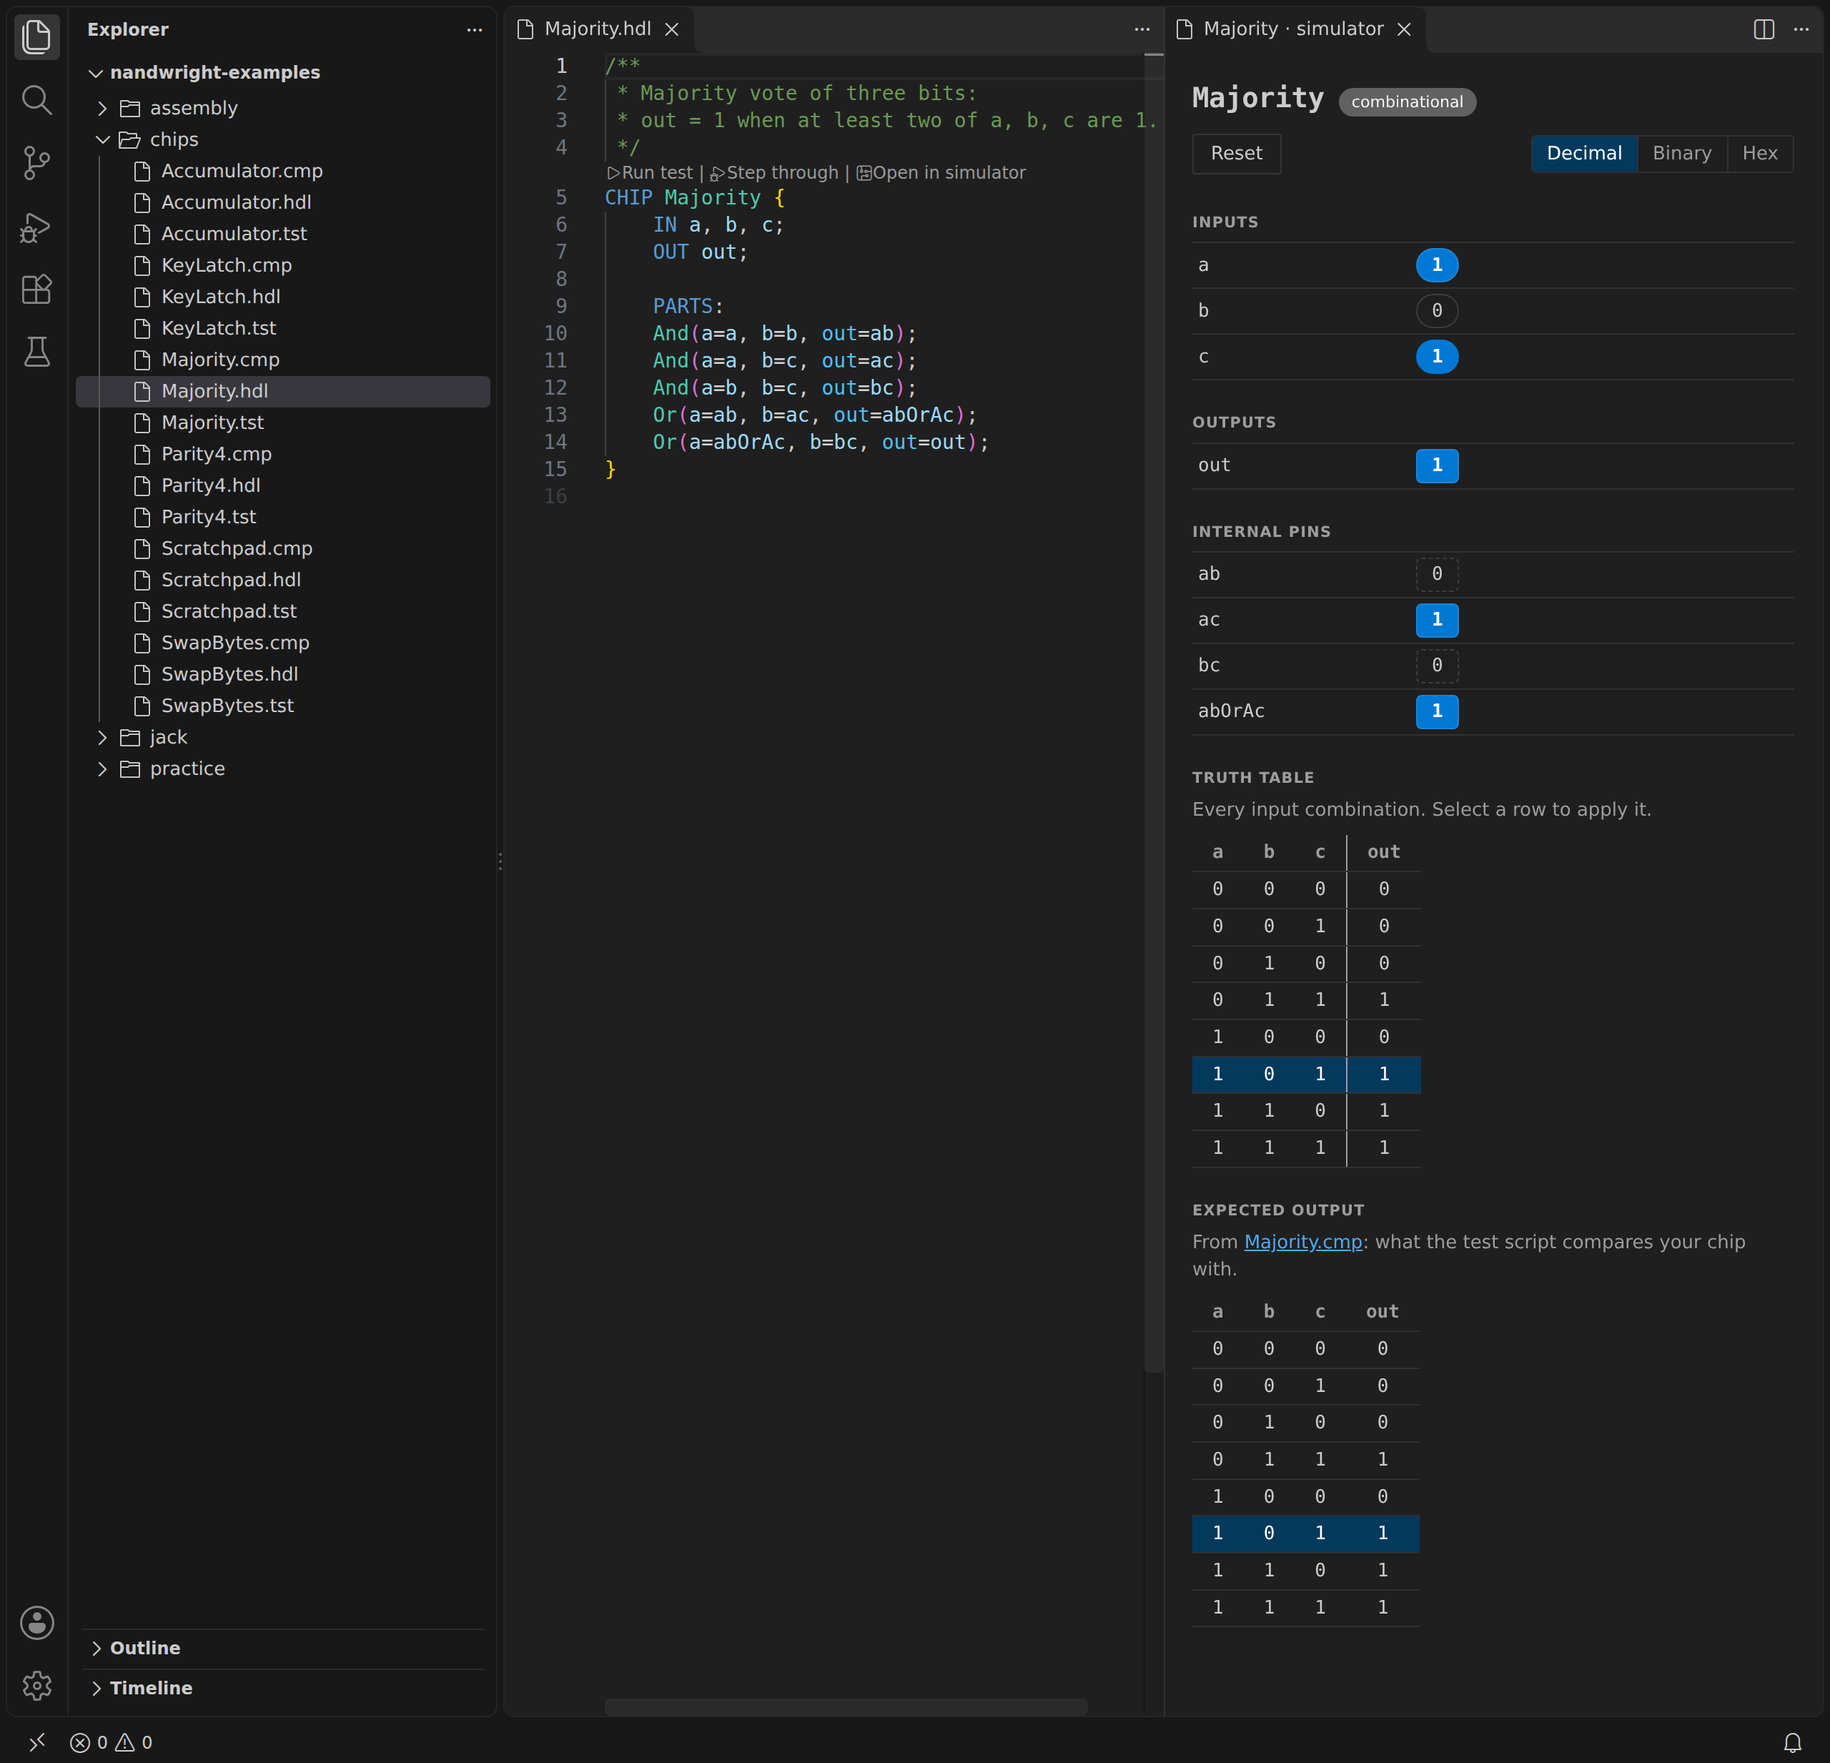
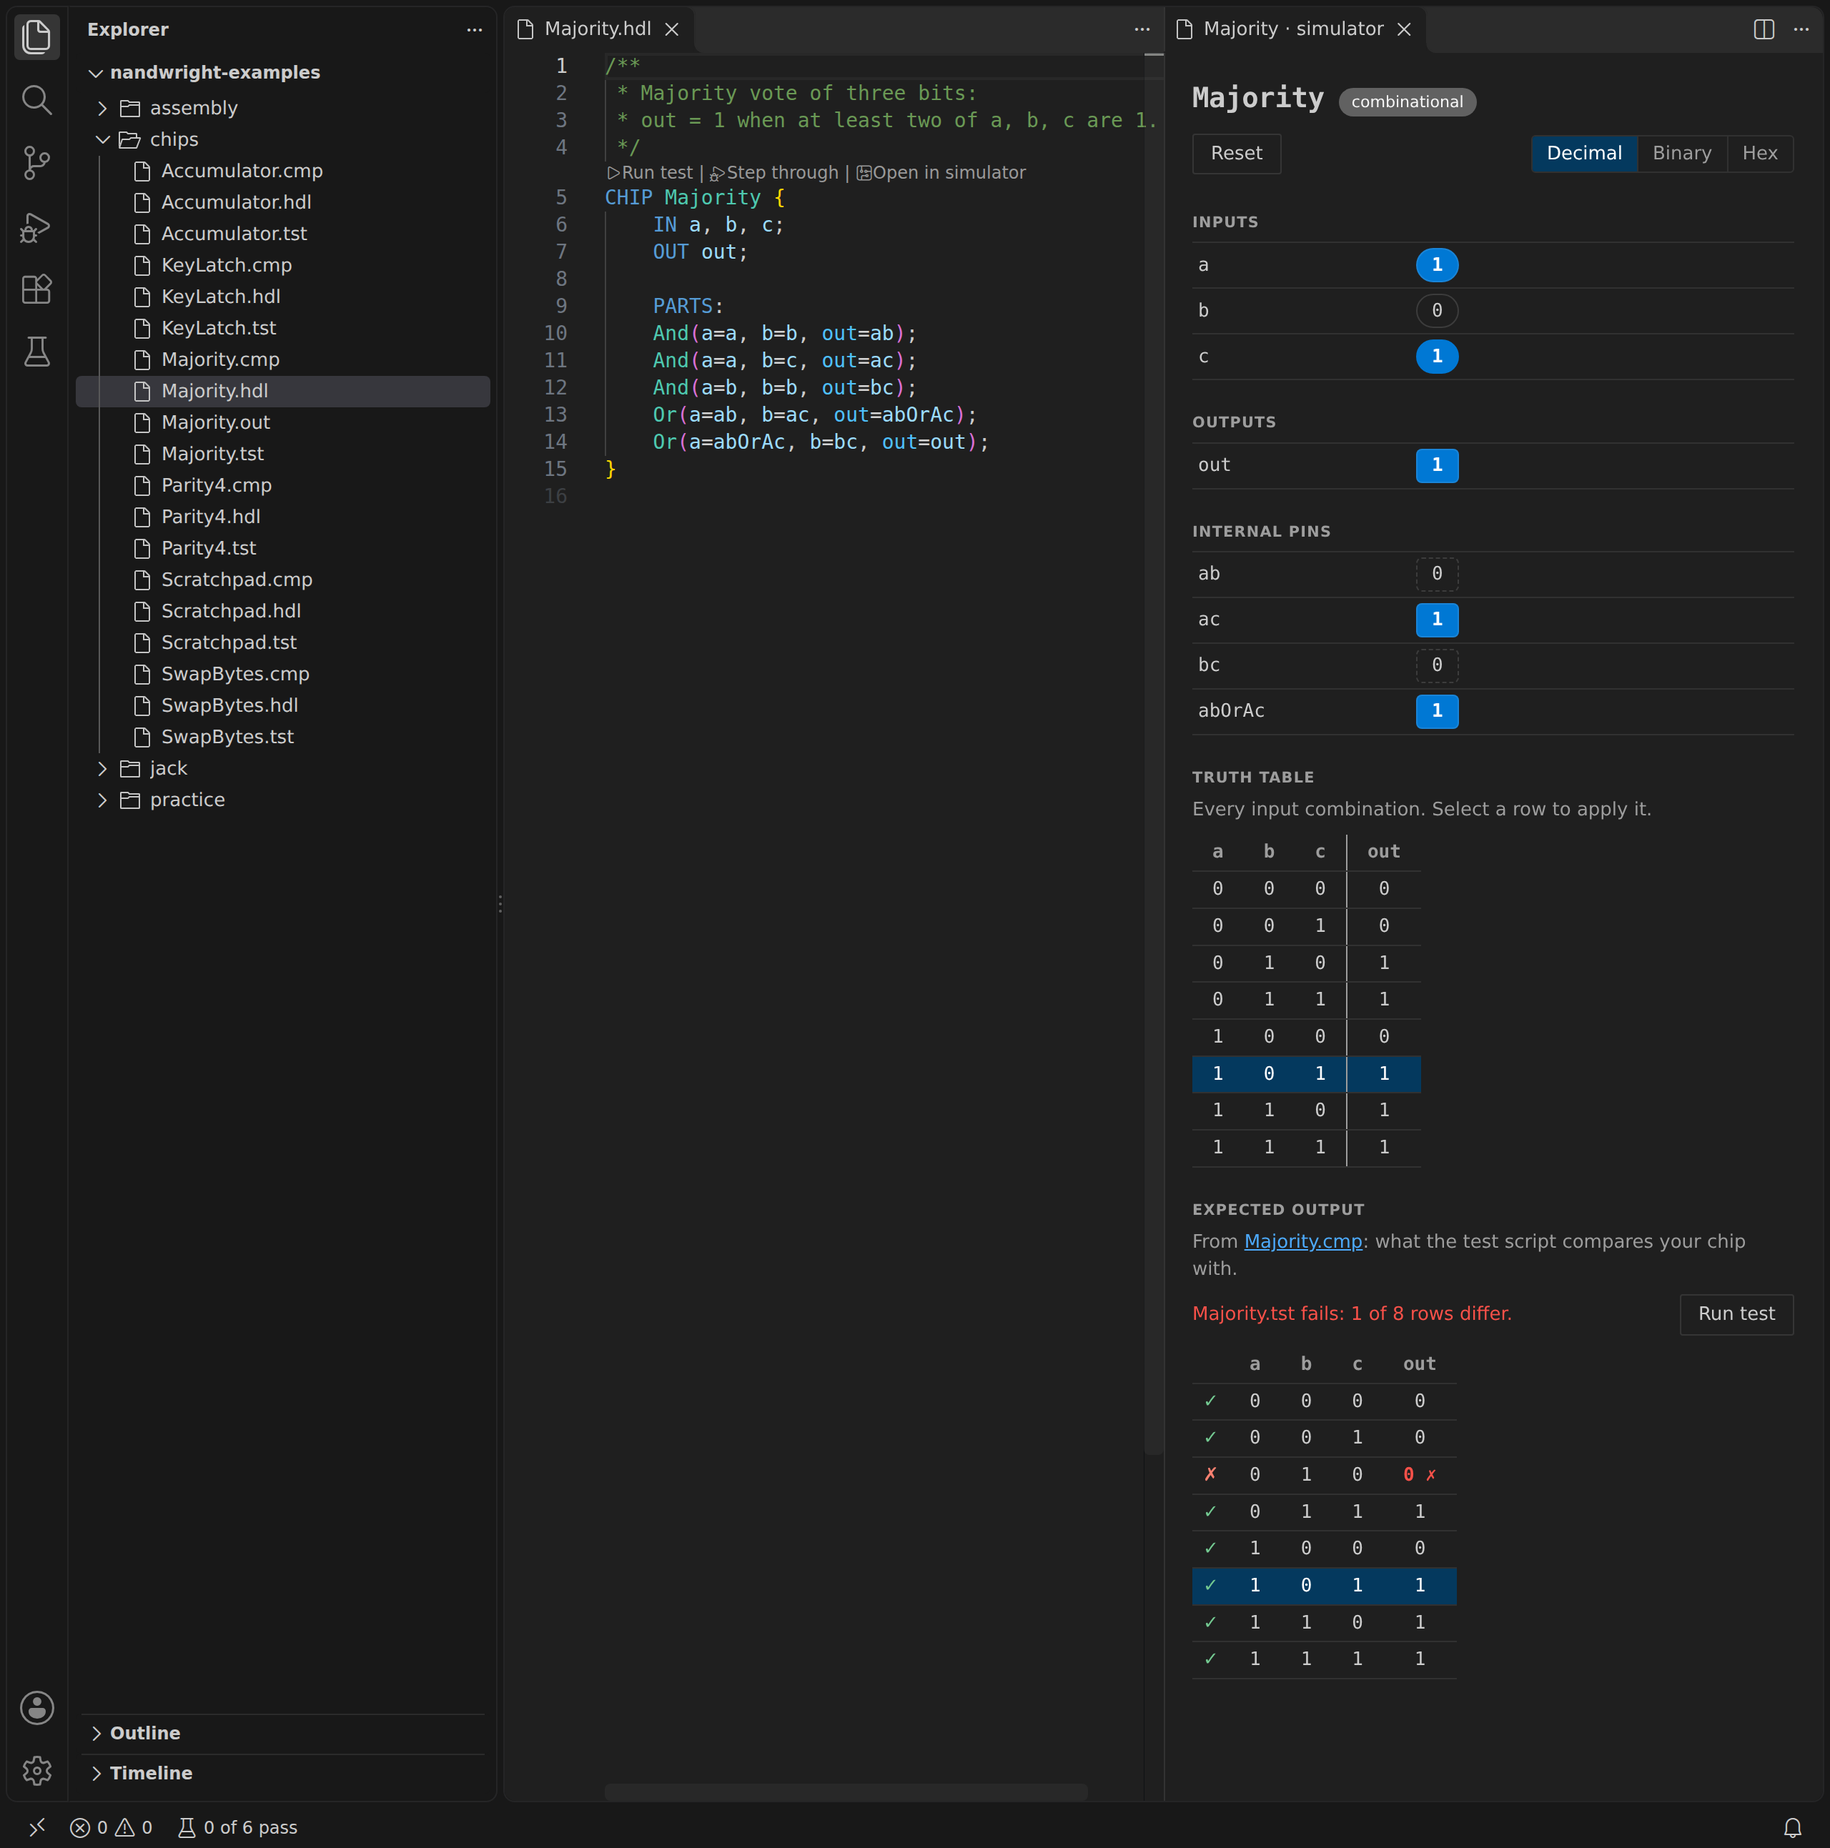
Clock history in the chip simulator; screenshots of the test result and the history

diff --git a/extension/src/chipPanel.ts b/extension/src/chipPanel.ts
@@ -4,7 +4,7 @@
 import * as path from 'node:path';
 import * as vscode from 'vscode';
 import { Runtime } from './runtime/client';
-import { ChipState, ChipTest, EngineError, Expected, TruthTable, isError } from './runtime/protocol';
+import { ChipState, ChipTest, ClockStep, EngineError, Expected, TruthTable, isError } from './runtime/protocol';
 import { panelHtml } from './panelHtml';
 import { pathKey, samePath } from './paths';
 import { TestExplorer, textOf } from './testing';
@@ -13,6 +13,9 @@ import type { FromPanel, ToPanel } from './webview/chip';
 
 /** Typing pauses this long before the panel reloads the chip. */
 const RELOAD_DELAY_MS = 250;
+
+/** Clock steps kept in the history; older ones are dropped. */
+const HISTORY_STEPS = 100;
 
 /** Rows of the compare file shown; the rest are counted, not listed. */
 const EXPECTED_ROWS = 256;
@@ -56,6 +59,10 @@ class ChipPanel {
     private expectedTimer: NodeJS.Timeout | undefined;
     private expected: Expected | null = null;
     private script: vscode.Uri | null = null;
+    /** The pins after each clock step taken in the panel, oldest first. */
+    private history: ClockStep[] = [];
+    /** Whether older steps were dropped from the history. */
+    private historyCapped = false;
     private watcher: vscode.FileSystemWatcher | undefined;
     private disposed = false;
     /** The chip shown. It changes when the panel follows the editor. */
@@ -205,6 +212,8 @@ class ChipPanel {
             problem: this.problem,
             expected: this.expected,
             test: this.testState(),
+            history: this.history,
+            historyCapped: this.historyCapped,
         };
         void this.panel.webview.postMessage(message);
     }
@@ -280,8 +289,14 @@ class ChipPanel {
         return this.queue;
     }
 
-    /** (Re)loads the chip from the editor's current text. */
+    private clearHistory(): void {
+        this.history = [];
+        this.historyCapped = false;
+    }
+
+    /** (Re)loads the chip from the editor's current text. A new start: the clock history goes. */
     private async reload(): Promise<void> {
+        this.clearHistory();
         await this.runtime.syncUnsaved();
         if (this.session === undefined) {
             const reply = await this.runtime.tryCall<ChipState>({ op: 'chip.open', path: this.chip.fsPath });
@@ -338,6 +353,11 @@ class ChipPanel {
         }
         if (message.type === 'openExpected') {
             await this.openExpected();
+            return;
+        }
+        if (message.type === 'clearHistory') {
+            this.clearHistory();
+            this.post();
             return;
         }
         if (message.type === 'runTest') {
@@ -398,6 +418,16 @@ class ChipPanel {
                 } else {
                     this.problem = null;
                     this.state = reply;
+                    if (reply.clocked && message.action !== 'eval') {
+                        this.history.push({
+                            time: reply.time,
+                            pins: reply.pins.filter((pin) => pin.role === 'input' || pin.role === 'output'),
+                        });
+                        if (this.history.length > HISTORY_STEPS) {
+                            this.history.splice(0, this.history.length - HISTORY_STEPS);
+                            this.historyCapped = true;
+                        }
+                    }
                 }
                 break;
             }
@@ -406,8 +436,22 @@ class ChipPanel {
     }
 
     /** The state last shown, for tests. */
-    snapshot(): { state: ChipState | null; table: TruthTable | null; problem: string | null; expected: Expected | null; test: ChipTest | null } {
-        return { state: this.state, table: this.table, problem: this.problem, expected: this.expected, test: this.testState() };
+    snapshot(): {
+        state: ChipState | null;
+        table: TruthTable | null;
+        problem: string | null;
+        expected: Expected | null;
+        test: ChipTest | null;
+        history: ClockStep[];
+    } {
+        return {
+            state: this.state,
+            table: this.table,
+            problem: this.problem,
+            expected: this.expected,
+            test: this.testState(),
+            history: [...this.history],
+        };
     }
 
     /** Handles a message as if the panel had sent it, for tests. */
@@ -536,6 +580,10 @@ button.bit:hover { border-color: var(--vscode-focusBorder); }
 .expected td.mark.match { color: var(--vscode-testing-iconPassed, var(--vscode-foreground)); }
 .expected td.mark.differ { color: var(--vscode-testing-iconFailed, var(--vscode-errorForeground)); font-weight: 600; }
 .expected td.mark.unreached { color: var(--vscode-descriptionForeground); }
+.history-bar { display: flex; flex-wrap: wrap; align-items: baseline; gap: 4px 12px; }
+.history-scroll { max-height: 240px; overflow: auto; border-top: 1px solid var(--line); }
+.history-scroll .truth { margin-top: 0; }
+.history-scroll thead th { position: sticky; top: 0; background: var(--vscode-editor-background); }
 .test-run { display: flex; flex-wrap: wrap; align-items: center; gap: 6px 10px; margin: 2px 0 8px; }
 .test-run .summary { flex: 1 1 16em; min-width: 0; overflow-wrap: anywhere; }
 .test-run .summary.fails { color: var(--vscode-errorForeground); }

diff --git a/extension/src/webview/chip.ts b/extension/src/webview/chip.ts
@@ -4,7 +4,7 @@
 // internal pins, which follow. The extension owns the simulation; this file
 // only draws the state it is sent and reports what the student does.
 
-import type { ChipState, ChipTest, Expected, Pin, TruthTable } from '../runtime/protocol';
+import type { ChipState, ChipTest, ClockStep, Expected, Pin, TruthTable } from '../runtime/protocol';
 import { Radix, cellValue, formatValue, toBigInt, typedValue } from '../values';
 
 declare function acquireVsCodeApi(): {
@@ -21,6 +21,8 @@ export type ToPanel =
           problem: string | null;
           expected: Expected | null;
           test: ChipTest | null;
+          history: ClockStep[];
+          historyCapped: boolean;
       }
     | { type: 'rejected'; pin: string; message: string };
 
@@ -28,6 +30,7 @@ export type FromPanel =
     | { type: 'ready' }
     | { type: 'openExpected' }
     | { type: 'runTest' }
+    | { type: 'clearHistory' }
     | { type: 'set'; pin: string; value: string | number }
     | { type: 'setAll'; values: Record<string, number> }
     | { type: 'action'; action: 'eval' | 'tick' | 'tock' | 'step' | 'reset' };
@@ -40,6 +43,8 @@ let current: ChipState | null = null;
 let table: TruthTable | null = null;
 let expected: Expected | null = null;
 let test: ChipTest | null = null;
+let history: ClockStep[] = [];
+let historyCapped = false;
 let previous = new Map<string, string>();
 
 function element<K extends keyof HTMLElementTagNameMap>(
@@ -324,6 +329,47 @@ function expectedTable(state: ChipState, file: Expected): HTMLElement {
     return block;
 }
 
+/** The pins after each tick and tock, oldest first, in a box that scrolls. */
+function clockHistory(state: ChipState): HTMLElement {
+    const block = element('section', {});
+    block.append(element('h2', {}, 'Clock history'));
+    if (history.length === 0) {
+        block.append(element('p', { class: 'hint' }, 'Press Tick or Tock and each step is listed here.'));
+        return block;
+    }
+    const bar = element('div', { class: 'history-bar' });
+    if (historyCapped) {
+        bar.append(element('p', { class: 'hint' }, 'Showing the last 100 steps.'));
+    }
+    const clear = element('button', { type: 'button', class: 'link' }, 'Clear');
+    clear.addEventListener('click', () => send({ type: 'clearHistory' }));
+    bar.append(clear);
+    block.append(bar);
+    const columns = state.pins.filter((pin) => pin.role === 'input' || pin.role === 'output');
+    const tableElement = element('table', { class: 'truth history' });
+    const head = element('tr', {});
+    head.append(element('th', { scope: 'col' }, 'time'));
+    columns.forEach((pin) =>
+        head.append(element('th', { scope: 'col', class: pin === columns.find((p) => p.role === 'output') ? 'out first-out' : '' }, pin.name)),
+    );
+    tableElement.append(element('thead', {}, head));
+    const body = element('tbody', {});
+    for (const step of history) {
+        const tr = element('tr', {});
+        tr.append(element('td', {}, step.time));
+        for (const pin of columns) {
+            const value = step.pins.find((p) => p.name === pin.name);
+            const text = value ? formatValue(value.bits, value.width, value.width > 1 ? radix : 'dec') : '';
+            tr.append(element('td', pin === columns.find((p) => p.role === 'output') ? { class: 'first-out' } : {}, text));
+        }
+        body.append(tr);
+    }
+    tableElement.append(body);
+    const scroller = element('div', { class: 'history-scroll', tabindex: '0', role: 'region', 'aria-label': 'Clock history' }, tableElement);
+    block.append(scroller);
+    return block;
+}
+
 function truthTable(state: ChipState, truth: TruthTable): HTMLElement {
     const block = element('section', {});
     block.append(element('h2', {}, 'Truth table'));
@@ -441,11 +487,21 @@ function render(problem: string | null): void {
             root.append(block);
         }
     }
+    let scroller: HTMLElement | null = null;
+    if (state.clocked) {
+        const block = clockHistory(state);
+        scroller = block.querySelector('.history-scroll');
+        root.append(block);
+    }
     if (table && !state.clocked) {
         root.append(truthTable(state, table));
     }
     if (expected) {
         root.append(expectedTable(state, expected));
+    }
+    if (scroller) {
+        // The newest step is the one to see.
+        scroller.scrollTop = scroller.scrollHeight;
     }
     previous = new Map(state.pins.map((pin) => [pin.name, String(pin.bits)]));
     if (focused) {
@@ -464,6 +520,8 @@ window.addEventListener('message', (event: MessageEvent<ToPanel>) => {
             table = message.table;
             expected = message.expected;
             test = message.test;
+            history = message.history;
+            historyCapped = message.historyCapped;
         } else {
             // The panel moved to another chip that has not loaded: the old
             // chip's pins must not stay on screen under the new one's name.
@@ -471,6 +529,8 @@ window.addEventListener('message', (event: MessageEvent<ToPanel>) => {
             table = null;
             expected = null;
             test = null;
+            history = [];
+            historyCapped = false;
             previous = new Map();
         }
         render(message.problem);

diff --git a/extension/src/test/integration/extension.test.ts b/extension/src/test/integration/extension.test.ts
@@ -525,6 +525,47 @@ describe('Nandwright', function () {
             panel.panel.dispose();
         });
 
+        it('keeps a clock history of the steps taken in the panel', async () => {
+            const nandwright = await api();
+            const panel = await nandwright.chips.open(file('chips', 'Accumulator.hdl'));
+            const steps = () => panel.snapshot().history.map((step) => [step.time, step.pins.find((pin) => pin.name === 'out')?.bits]);
+            assert.deepEqual(steps(), []);
+            await panel.simulate({ type: 'set', pin: 'in', value: 5 });
+            await panel.simulate({ type: 'set', pin: 'add', value: 1 });
+            await panel.simulate({ type: 'action', action: 'tick' });
+            await panel.simulate({ type: 'action', action: 'tock' });
+            await panel.simulate({ type: 'action', action: 'step' });
+            assert.deepEqual(steps(), [
+                ['0+', 0],
+                ['1', 5],
+                ['2', 10],
+            ]);
+            // Inputs and outputs only, as the panel shows them.
+            assert.deepEqual(
+                panel.snapshot().history[0].pins.map((pin) => [pin.name, pin.role]),
+                [
+                    ['in', 'input'],
+                    ['add', 'input'],
+                    ['reset', 'input'],
+                    ['out', 'output'],
+                ],
+            );
+            assert.equal(panel.snapshot().history[0].pins.find((pin) => pin.name === 'in')?.bits, 5);
+            await panel.simulate({ type: 'action', action: 'reset' });
+            assert.deepEqual(steps(), []);
+            await panel.simulate({ type: 'action', action: 'step' });
+            assert.equal(steps().length, 1);
+            await panel.simulate({ type: 'clearHistory' });
+            assert.deepEqual(steps(), []);
+            // A chip without a clock has no history.
+            await open('chips', 'Majority.hdl');
+            await until('the panel to show Majority', () => panel.snapshot().state?.chip === 'Majority');
+            await panel.settled();
+            await panel.simulate({ type: 'set', pin: 'a', value: 1 });
+            assert.deepEqual(panel.snapshot().history, []);
+            panel.panel.dispose();
+        });
+
         it('follows the editor as the chip is typed', async () => {
             const nandwright = await api();
             const editor = await open('chips', 'Parity4.hdl');

diff --git a/extension/src/runtime/protocol.ts b/extension/src/runtime/protocol.ts
@@ -136,6 +136,12 @@ export interface Expected {
     more: number;
 }
 
+/** The pins after one clock step in the chip simulator. */
+export interface ClockStep {
+    time: string;
+    pins: Pin[];
+}
+
 /** The last run of a chip's test script, as the simulator panel shows it. */
 export interface ChipTest {
     /** The script's file name. */

diff --git a/README.md b/README.md
@@ -73,6 +73,7 @@ The [`examples`](examples) folder of this repository has more: chips, assembly p
   decimal, binary or hex, and watch outputs and internal pins. Small chips get a full
   truth table.
 - Clocked chips have **Tick**, **Tock** and the clock time, so you can watch a register load.
+- For clocked chips the simulator keeps a clock history: the pins after each tick and tock.
 - The panel follows the editor as you type. It follows you from chip to chip as you switch files. Below the pins it shows the expected output from the chip's `.cmp` file, and marks where your chip disagrees.
 - The chip simulator marks each row of the expected output as matching, differing or not reached after a test run, and has a Run test button.
 

diff --git a/CHANGELOG.md b/CHANGELOG.md
@@ -10,6 +10,7 @@
   runs the chip's test from the panel.
 - Project progress in the status bar: how many of the folder's tests pass, with a list of
   what is passing, failing, not run or not started.
+- Clock history in the chip simulator: the pins after each tick and tock.
 
 ## 0.2.0
 
